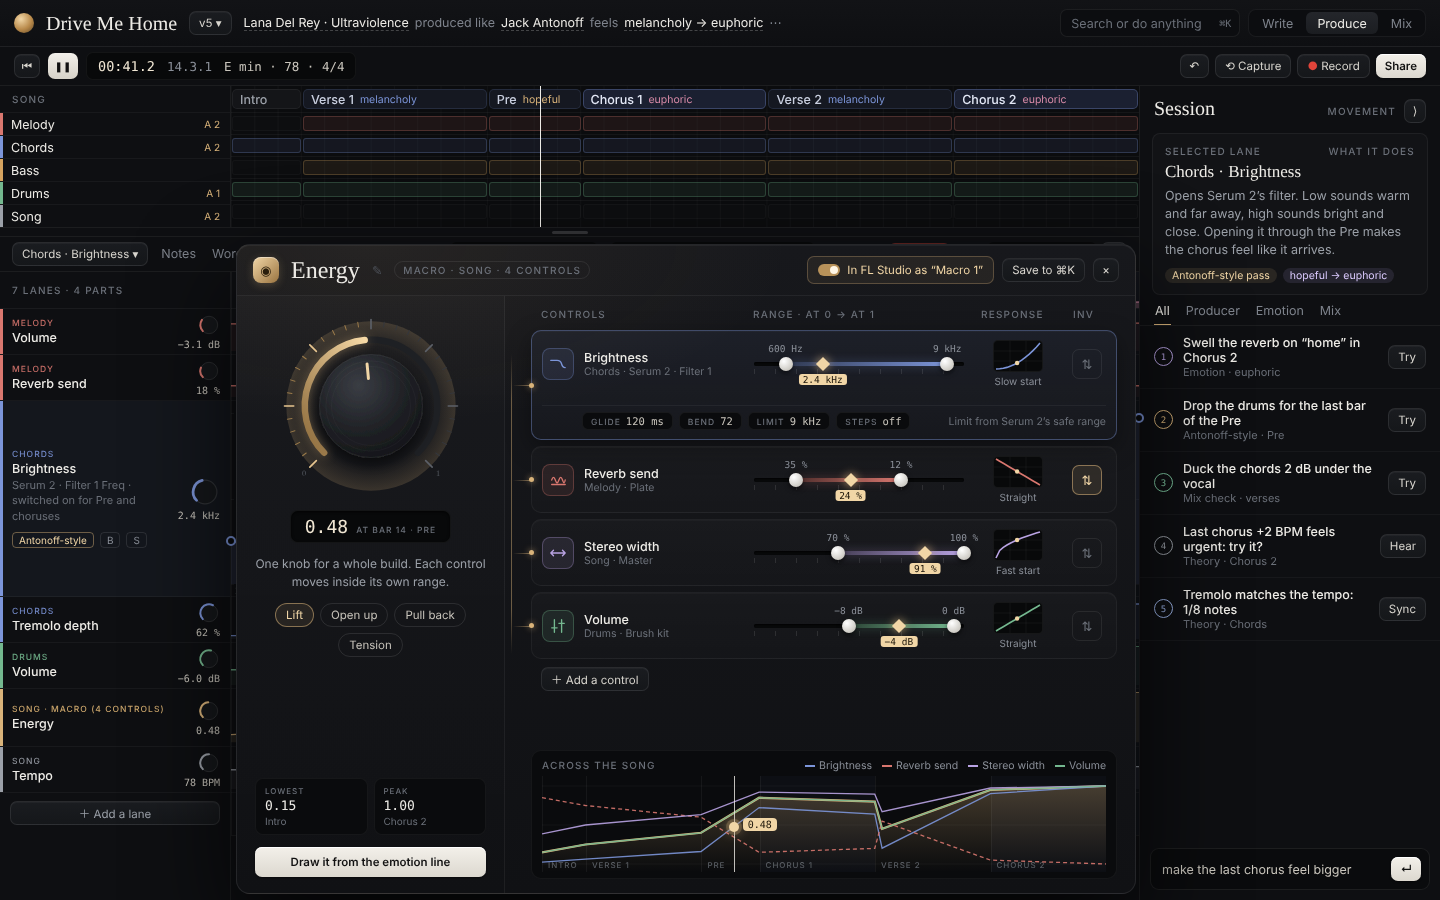
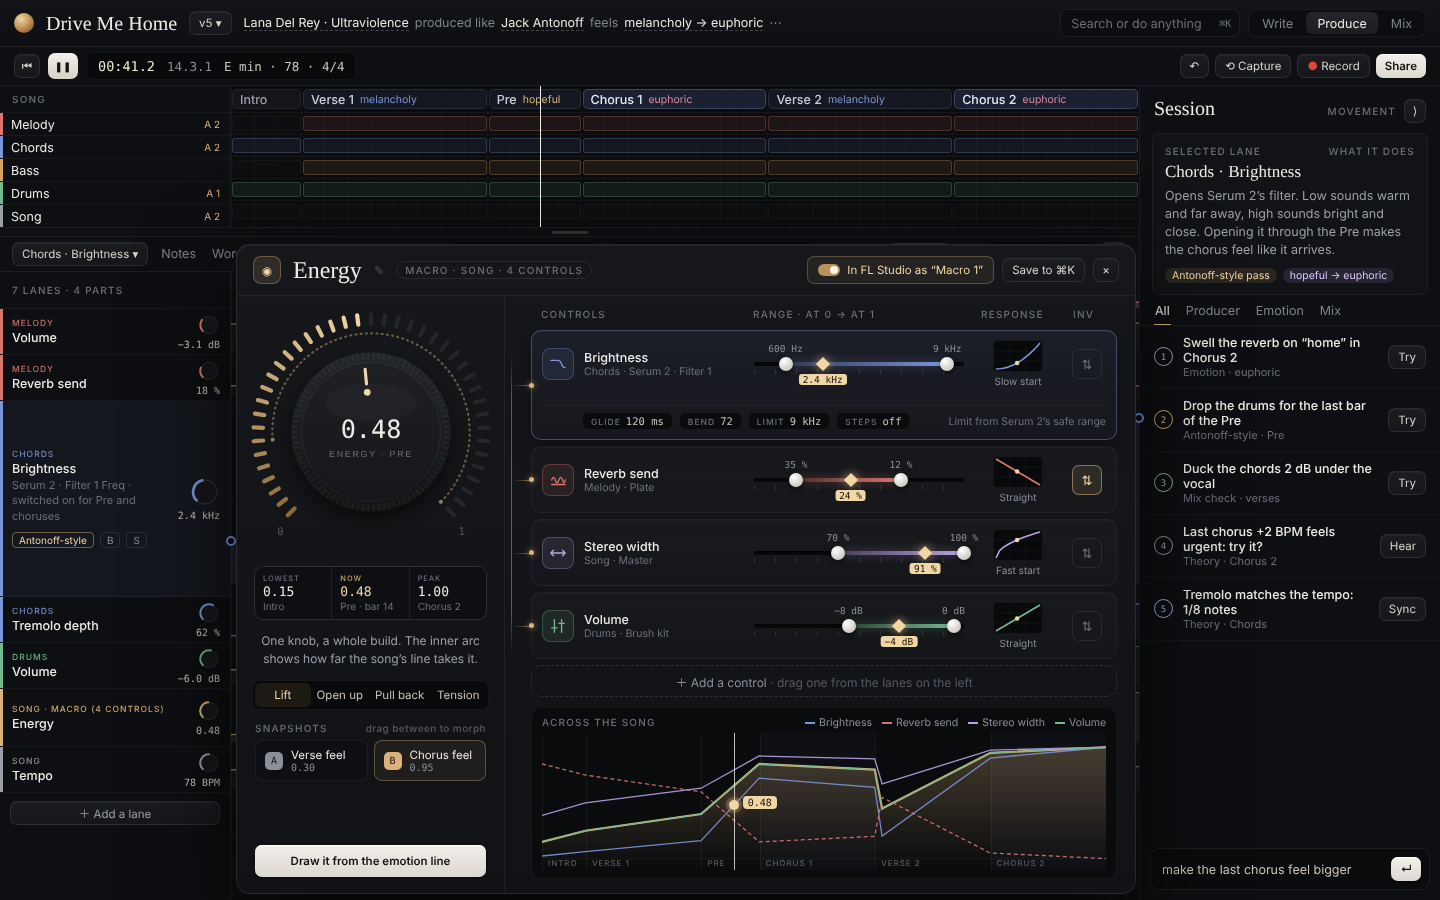
Design: macro panel tidied, modern knob (LED ring, song range arc, knurled cap, value inside), snapshots
Claude-Session: https://claude.ai/code/session_01Gwi5mznyCGAVwjhLcrp4R8

diff --git a/docs/design/automation/reference-macro.dc.html b/docs/design/automation/reference-macro.dc.html
@@ -108,9 +108,9 @@ button{cursor:pointer;white-space:nowrap}
         </div>
       </section>
 
-      <div role="dialog" aria-label="Energy macro" style="position: absolute; left: 236px; top: 158px; width: 898px; height: 648px; border-radius: 14px; background: radial-gradient(700px 300px at 15% 0%, rgba(217,179,122,.08), transparent 60%), linear-gradient(#17181C, #101114); border: 1px solid rgba(255,255,255,.09); box-shadow: 0 40px 100px rgba(0,0,0,.75), inset 0 1px 0 rgba(255,255,255,.05); z-index: 6; display: flex; flex-direction: column; overflow: hidden">
+      <div role="dialog" aria-label="Energy macro" style="position: absolute; left: 236px; top: 158px; width: 898px; height: 648px; border-radius: 14px; background: linear-gradient(#16171B, #111215); border: 1px solid rgba(255,255,255,.09); box-shadow: 0 40px 100px rgba(0,0,0,.75), inset 0 1px 0 rgba(255,255,255,.05); z-index: 6; display: flex; flex-direction: column; overflow: hidden">
         <div style="height: 50px; flex-shrink: 0; display: flex; align-items: center; gap: 12px; padding: 0 16px; border-bottom: 1px solid rgba(255,255,255,.06)">
-          <span style="width: 26px; height: 26px; border-radius: 8px; background: linear-gradient(135deg, #F1D6A6, #9A7440); box-shadow: inset 0 1px 0 rgba(255,255,255,.4), 0 2px 8px rgba(217,179,122,.25); display: flex; align-items: center; justify-content: center; color: #2A1E0C; font-size: 13px">◉</span>
+          <span style="width: 26px; height: 26px; border-radius: 8px; background: rgba(217,179,122,.14); border: 1px solid rgba(217,179,122,.35); display: flex; align-items: center; justify-content: center; color: #F1D6A6; font-size: 12px">◉</span>
           <span class="serif" style="font-size: 24px; line-height: 1">Energy</span><span style="color: #4C5058">✎</span>
           <span class="sm" style="padding: 2px 8px; border-radius: 999px; border: 1px solid rgba(255,255,255,.08)">Macro · Song · 4 controls</span>
           <span style="margin-left: auto; display: flex; gap: 8px; align-items: center">
@@ -119,29 +119,32 @@ button{cursor:pointer;white-space:nowrap}
           </span>
         </div>
         <div style="flex: 1; min-height: 0; display: grid; grid-template-columns: 268px 1fr">
-          <div style="padding: 18px 18px 16px; border-right: 1px solid rgba(255,255,255,.06); display: flex; flex-direction: column; align-items: center; gap: 12px; background: linear-gradient(rgba(255,255,255,.012), transparent)">
-            <svg viewBox="0 0 200 200" style="width: 184px; height: 184px" aria-label="Energy at 0.48">
+          <div style="padding: 14px 18px 16px; border-right: 1px solid rgba(255,255,255,.06); display: flex; flex-direction: column; align-items: center; gap: 12px">
+            <svg viewBox="0 0 240 240" style="width: 252px; height: 252px; flex-shrink: 0; margin: -4px 0" aria-label="Energy at 0.48">
               <defs>
-                <radialGradient id="cap" cx=".38" cy=".3" r=".8"><stop offset="0" stop-color="#3A3D44"></stop><stop offset=".55" stop-color="#202226"></stop><stop offset="1" stop-color="#121316"></stop></radialGradient>
-                <radialGradient id="glow" cx=".5" cy=".5" r=".5"><stop offset=".7" stop-color="rgba(217,179,122,0)"></stop><stop offset="1" stop-color="rgba(217,179,122,.18)"></stop></radialGradient>
-                <linearGradient id="arcG" x1="0" x2="1" y1="1" y2="0"><stop offset="0" stop-color="#8C6A3A"></stop><stop offset="1" stop-color="#F6D9A6"></stop></linearGradient>
-                <filter id="sh" x="-30%" y="-30%" width="160%" height="160%"><feDropShadow dx="0" dy="6" stdDeviation="7" flood-color="#000" flood-opacity=".6"></feDropShadow></filter>
+                <linearGradient id="capF" x1="0" x2="0" y1="0" y2="1"><stop offset="0" stop-color="#25272C"></stop><stop offset="1" stop-color="#131417"></stop></linearGradient>
+                <linearGradient id="faceF" x1="0" x2="0" y1="0" y2="1"><stop offset="0" stop-color="#1E2024"></stop><stop offset="1" stop-color="#16171A"></stop></linearGradient>
+                <filter id="ksh" x="-30%" y="-30%" width="160%" height="160%"><feDropShadow dx="0" dy="8" stdDeviation="9" flood-color="#000" flood-opacity=".55"></feDropShadow></filter>
               </defs>
-              <circle cx="100" cy="100" r="92" fill="url(#glow)"></circle>
-              <sc-for list="{{ticks}}" as="t" hint-placeholder-count="31"><path d="{{t.d}}" stroke="{{t.c}}" stroke-width="{{t.w}}" stroke-linecap="round"></path></sc-for>
-              <sc-for list="{{tickLab}}" as="t" hint-placeholder-count="3"><text x="{{t.x}}" y="{{t.y}}" text-anchor="middle" fill="#555A62" font-size="9" style="font-family: 'JetBrains Mono'">{{t.n}}</text></sc-for>
-              <path d="{{arcBg}}" fill="none" stroke="#1E2024" stroke-width="7" stroke-linecap="round"></path>
-              <path d="{{arc}}" fill="none" stroke="url(#arcG)" stroke-width="7" stroke-linecap="round" style="filter: drop-shadow(0 0 6px rgba(217,179,122,.45))"></path>
-              <circle cx="100" cy="100" r="56" fill="url(#cap)" filter="url(#sh)" stroke="rgba(255,255,255,.07)"></circle>
-              <circle cx="100" cy="100" r="49" fill="none" stroke="rgba(255,255,255,.035)"></circle>
-              <circle cx="100" cy="100" r="43" fill="none" stroke="rgba(255,255,255,.03)"></circle>
-              <path d="{{needle}}" stroke="#F1D6A6" stroke-width="3.2" stroke-linecap="round"></path>
+              <sc-for list="{{seg}}" as="g" hint-placeholder-count="41"><path d="{{g.d}}" stroke="{{g.c}}" stroke-width="4" stroke-linecap="round"></path></sc-for>
+              <path d="{{modArc}}" fill="none" stroke="rgba(217,179,122,.45)" stroke-width="2" stroke-linecap="round" stroke-dasharray="1 4"></path>
+              <sc-for list="{{modEnds}}" as="m" hint-placeholder-count="2"><circle cx="{{m.x}}" cy="{{m.y}}" r="2" fill="#8A7E68"></circle></sc-for>
+              <circle cx="120" cy="120" r="76" fill="url(#capF)" filter="url(#ksh)"></circle>
+              <sc-for list="{{knurl}}" as="k" hint-placeholder-count="90"><path d="{{k.d}}" stroke="rgba(255,255,255,.07)" stroke-width="1"></path></sc-for>
+              <circle cx="120" cy="120" r="66" fill="url(#faceF)" stroke="rgba(255,255,255,.06)"></circle>
+              <ellipse cx="120" cy="92" rx="44" ry="18" fill="rgba(255,255,255,.025)"></ellipse>
+              <path d="{{ptr}}" stroke="#F1D6A6" stroke-width="3" stroke-linecap="round"></path>
+              <circle cx="{{ptrDot.x}}" cy="{{ptrDot.y}}" r="3.2" fill="#F1D6A6"></circle>
+              <text x="120" y="126" text-anchor="middle" fill="#EDEBE6" font-size="24" font-family="JetBrains Mono, monospace" font-weight="500">0.48</text>
+              <text x="120" y="144" text-anchor="middle" fill="#6B7079" font-size="8.5" letter-spacing="1.6" font-family="Inter Tight, sans-serif">ENERGY · PRE</text>
+              <text x="{{lab0.x}}" y="{{lab0.y}}" text-anchor="middle" fill="#555A62" font-size="10" font-family="JetBrains Mono, monospace">0</text>
+              <text x="{{lab1.x}}" y="{{lab1.y}}" text-anchor="middle" fill="#555A62" font-size="10" font-family="JetBrains Mono, monospace">1</text>
             </svg>
-            <div style="display: flex; align-items: baseline; gap: 8px; padding: 5px 14px; border-radius: 8px; background: #08090A; border: 1px solid rgba(255,255,255,.05); box-shadow: inset 0 1px 3px rgba(0,0,0,.7)"><span class="mono" style="font-size: 18px; color: #F1E7D4">0.48</span><span class="sm" style="font-size: 8.5px">at bar 14 · Pre</span></div>
-            <span style="color: #9BA0A8; line-height: 1.5; text-align: center; font-size: 12px">One knob for a whole build. Each control moves inside its own range.</span>
-            <div style="display: flex; gap: 6px; flex-wrap: wrap; justify-content: center"><sc-for list="{{presets}}" as="p" hint-placeholder-count="3"><button style="height: 24px; padding: 0 10px; border-radius: 999px; border: 1px solid {{p.line}}; background: {{p.bg}}; color: {{p.ink}}; font-size: 11.5px">{{p.n}}</button></sc-for></div>
-            <div style="display: grid; grid-template-columns: 1fr 1fr; gap: 6px; width: 100%; margin-top: auto"><sc-for list="{{stats}}" as="x" hint-placeholder-count="2"><div style="padding: 7px 9px; border-radius: 8px; background: #0A0B0D; border: 1px solid rgba(255,255,255,.05); display: flex; flex-direction: column; gap: 2px"><span class="sm" style="font-size: 8px">{{x.k}}</span><span class="mono" style="font-size: 13px; color: #EDEBE6">{{x.v}}</span><span style="color: #6B7079; font-size: 10px">{{x.w}}</span></div></sc-for></div>
-            <button class="prim xs" style="width: 100%; height: 30px">Draw it from the emotion line</button>
+            <div style="display: grid; grid-template-columns: repeat(3, 1fr); width: 100%; border-radius: 9px; overflow: hidden; border: 1px solid rgba(255,255,255,.06); background: rgba(255,255,255,.06); gap: 1px"><sc-for list="{{stats}}" as="x" hint-placeholder-count="3"><div style="padding: 7px 8px; background: #0E0F12; display: flex; flex-direction: column; gap: 1px"><span class="sm" style="font-size: 7.5px; color: {{x.kc}}">{{x.k}}</span><span class="mono" style="font-size: 13px; color: {{x.vc}}">{{x.v}}</span><span style="color: #6B7079; font-size: 10px">{{x.w}}</span></div></sc-for></div>
+            <span style="color: #9BA0A8; line-height: 1.5; text-align: center; font-size: 12px">One knob, a whole build. The inner arc shows how far the song’s line takes it.</span>
+            <div style="display: grid; grid-template-columns: repeat(4, 1fr); width: 100%; padding: 2px; border-radius: 8px; background: #08090A; border: 1px solid rgba(255,255,255,.06)"><sc-for list="{{presets}}" as="p" hint-placeholder-count="4"><button style="height: 24px; border-radius: 6px; border: 0; background: {{p.bg}}; color: {{p.ink}}; font-size: 11.5px">{{p.n}}</button></sc-for></div>
+            <div style="width: 100%; display: flex; flex-direction: column; gap: 6px"><span class="sm" style="display: flex; justify-content: space-between"><span>Snapshots</span><span style="color: #555A62; letter-spacing: .04em; text-transform: none">drag between to morph</span></span><div style="display: grid; grid-template-columns: 1fr 1fr; gap: 6px; align-items: center"><sc-for list="{{snaps}}" as="n" hint-placeholder-count="2"><div style="padding: 7px 9px; border-radius: 8px; background: {{n.bg}}; border: 1px solid {{n.line}}; display: flex; align-items: center; gap: 8px"><span class="mono" style="width: 18px; height: 18px; border-radius: 5px; background: {{n.tag}}; color: #141210; font-size: 10px; display: flex; align-items: center; justify-content: center">{{n.k}}</span><span style="display: flex; flex-direction: column"><span style="font-size: 11.5px">{{n.n}}</span><span class="mono" style="font-size: 10px; color: #8A8F98">{{n.v}}</span></span></div></sc-for></div></div>
+            <button class="prim xs" style="width: 100%; height: 32px; margin-top: auto">Draw it from the emotion line</button>
           </div>
           <div style="padding: 12px 18px 14px 26px; display: flex; flex-direction: column; gap: 6px; min-width: 0; position: relative">
             <span aria-hidden="true" style="position: absolute; left: 6px; top: 58px; height: 300px; width: 1px; background: linear-gradient(rgba(217,179,122,.0), rgba(217,179,122,.45) 15%, rgba(217,179,122,.45) 85%, rgba(217,179,122,0))"></span>
@@ -167,10 +170,10 @@ button{cursor:pointer;white-space:nowrap}
                 <sc-if value="{{t.fine}}" hint-placeholder-val="{{false}}"><span style="grid-column: 1 / -1; display: flex; gap: 6px; align-items: center; padding: 6px 0 0 40px; border-top: 1px solid rgba(255,255,255,.05); margin-top: 2px"><sc-for list="{{t.fine}}" as="f" hint-placeholder-count="4"><span style="display: flex; gap: 5px; align-items: baseline; padding: 2px 8px; border-radius: 6px; background: #0A0B0D; border: 1px solid rgba(255,255,255,.06)"><span class="sm" style="font-size: 8.5px">{{f.k}}</span><span class="mono" style="font-size: 10.5px; color: #C9C5BC">{{f.v}}</span></span></sc-for><span style="margin-left: auto; color: #6B7079; font-size: 10.5px">Limit from Serum 2’s safe range</span></span></sc-if>
               </div>
             </sc-for>
-            <button class="ghost xs" style="align-self: flex-start; margin: 2px 0 0 10px">＋ Add a control</button>
-            <div style="margin-top: auto; border-radius: 10px; background: #0A0B0D; border: 1px solid rgba(255,255,255,.05); padding: 8px 10px 6px; position: relative; overflow: hidden">
+            <button style="height: 32px; border-radius: 10px; border: 1px dashed rgba(255,255,255,.12); background: transparent; color: #8A8F98; font-size: 12px">＋ Add a control  <span style="color: #555A62">· drag one from the lanes on the left</span></button>
+            <div style="flex: 1; min-height: 120px; margin-top: 4px; border-radius: 10px; background: #0A0B0D; border: 1px solid rgba(255,255,255,.05); padding: 8px 10px 8px; position: relative; overflow: hidden; display: flex; flex-direction: column">
               <div style="display: flex; justify-content: space-between; margin-bottom: 4px"><span class="sm">Across the song</span><span style="display: flex; gap: 10px"><sc-for list="{{mt}}" as="t" hint-placeholder-count="4"><span style="display: flex; align-items: center; gap: 4px; color: #8A8F98; font-size: 10.5px"><span style="width: 10px; height: 2px; background: {{t.c}}"></span>{{t.n}}</span></sc-for></span></div>
-              <div style="position: relative; height: 96px">
+              <div style="position: relative; flex: 1">
                 <div style="position: absolute; inset: 0; display: flex"><sc-for list="{{secs}}" as="x" hint-placeholder-count="6"><div style="flex: {{x.b}} 1 0; border-left: 1px solid rgba(255,255,255,.05); background: {{x.band}}; position: relative"><span class="sm" style="position: absolute; left: 5px; bottom: 2px; font-size: 8px; color: #555A62; white-space: nowrap">{{x.n}}</span></div></sc-for></div>
                 <svg viewBox="0 0 1000 96" preserveAspectRatio="none" style="position: absolute; inset: 0; width: 100%; height: 100%" aria-hidden="true"><defs><linearGradient id="enf" x1="0" x2="0" y1="0" y2="1"><stop offset="0" stop-color="rgba(217,179,122,.28)"></stop><stop offset="1" stop-color="rgba(217,179,122,0)"></stop></linearGradient></defs><path d="M0 10 H1000 M0 49 H1000 M0 88 H1000" stroke="rgba(255,255,255,.04)" vector-effect="non-scaling-stroke"></path><path d="{{enArea}}" fill="url(#enf)"></path><path d="{{enLine}}" fill="none" stroke="#D9B37A" stroke-width="2.2" vector-effect="non-scaling-stroke"></path><sc-for list="{{mt}}" as="t" hint-placeholder-count="4"><path d="{{t.line}}" fill="none" stroke="{{t.c}}" stroke-width="1.3" stroke-dasharray="{{t.dash}}" vector-effect="non-scaling-stroke" opacity=".9"></path></sc-for></svg>
                 <div style="position: absolute; top: 0; bottom: 0; left: 34%; width: 1px; background: #EDEBE6; opacity: .8"></div><span style="position: absolute; left: calc(34% - 5px); top: calc({{phY}}% - 5px); width: 10px; height: 10px; border-radius: 50%; background: #F1D6A6; box-shadow: 0 0 0 3px rgba(217,179,122,.25), 0 0 12px rgba(217,179,122,.8)"></span><span class="mono" style="position: absolute; left: calc(34% + 9px); top: calc({{phY}}% - 9px); font-size: 10px; color: #1B1408; background: #F1D6A6; padding: 1px 5px; border-radius: 4px">0.48</span>
@@ -253,7 +256,16 @@ class Component extends DCLogic {
       return { part: t[0], c: t[1], c0: hx(t[1], .35), glow: hx(t[1], .35), tint: hx(t[1], .1), ring: hx(t[1], .3), icon: t[2], n: t[3], where: t[4], a: Math.min(a, b), b: Math.max(a, b), w: Math.abs(b - a), va: t[7], vb: t[8], now: now.toFixed(1), vn: t[11], r: t[9], rd: rd, dx: (2 + V * 44).toFixed(1), dy: (28 - fy * 26).toFixed(1), invLine: t[10] ? 'rgba(217,179,122,.55)' : 'rgba(255,255,255,.08)', invBg: t[10] ? 'rgba(217,179,122,.12)' : 'transparent', invInk: t[10] ? '#F1D6A6' : '#6B7079', line: line, dash: t[10] ? '4 3' : '0', cardBg: t[3] === 'Brightness' ? 'linear-gradient(rgba(124,149,217,.07), rgba(124,149,217,.02))' : 'linear-gradient(rgba(255,255,255,.025), rgba(255,255,255,.01))', cardLine: t[3] === 'Brightness' ? 'rgba(124,149,217,.4)' : 'rgba(255,255,255,.05)', cardGlow: t[3] === 'Brightness' ? '0 8px 24px rgba(0,0,0,.35)' : '0 0 0 transparent', fine: t[3] === 'Brightness' ? [['Glide', '120 ms'], ['Bend', '72'], ['Limit', '9 kHz'], ['Steps', 'off']].map(function (f) { return { k: f[0], v: f[1] }; }) : false }; });
     var stats = [['Lowest', '0.15', 'Intro'], ['Peak', '1.00', 'Chorus 2']].map(function (x) { return { k: x[0], v: x[1], w: x[2] }; });
     var eL = 'M' + en2.map(function (p) { return (p[0] / 39 * 1000).toFixed(0) + ' ' + (88 - p[1] * 78).toFixed(1); }).join(' L');
-    return { stats: stats, phY: ((88 - .48 * 78) / 96 * 100).toFixed(1), ticks: ticks, tickLab: tickLab, arcBg: arcBg, arc: arc, needle: needle, presets: presets, mt: mt, enLine: eL, enArea: eL + ' L1000 96 L0 96 Z', parts: parts, secs: secs, tabs: tabs, tools: tools, lanes: lanes, laneCount: '7 lanes · 4 parts', energy: eL + ' L1000 16 L0 16 Z', energyLine: eL, shapes: shapes, lens: lens, selL: (11 / 39 * 100).toFixed(2), selW: (4 / 39 * 100).toFixed(2), filters: filters, feed: feed, pop: pop, addInk: ADD ? '#EDEBE6' : '#9BA0A8', addLine: ADD ? 'rgba(217,179,122,.6)' : 'rgba(255,255,255,.09)' };
+    function KQ(a, r) { a = a * Math.PI / 180; return [(120 + r * Math.cos(a)).toFixed(1), (120 + r * Math.sin(a)).toFixed(1)]; }
+    var seg = []; for (var k = 0; k <= 40; k++) { var t = k / 40, ang = 135 + t * 270, on = t <= V + 1e-6, q1 = KQ(ang, 112), q2 = KQ(ang, 103); var c = on ? 'rgb(' + Math.round(140 + 101 * t / V) + ',' + Math.round(106 + 108 * t / V) + ',' + Math.round(58 + 108 * t / V) + ')' : '#24262B'; seg.push({ d: 'M' + q1.join(' ') + ' L' + q2.join(' '), c: c }); }
+    var m0 = KQ(135 + .15 * 270, 94), m1 = KQ(135 + 1 * 270, 94); var modArc = 'M' + m0.join(' ') + ' A94 94 0 1 1 ' + m1.join(' ');
+    var modEnds = [m0, m1].map(function (m) { return { x: m[0], y: m[1] }; });
+    var knurl = []; for (var k2 = 0; k2 < 90; k2++) { var a2 = k2 * 4, u1 = KQ(a2, 75), u2 = KQ(a2, 69); knurl.push({ d: 'M' + u1.join(' ') + ' L' + u2.join(' ') }); }
+    var pa = 135 + V * 270, pp1 = KQ(pa, 46), pp2 = KQ(pa, 60), pd = KQ(pa, 38);
+    var l0 = KQ(135, 122), l1 = KQ(45, 122);
+    stats = [['Lowest', '0.15', 'Intro', 0], ['Now', '0.48', 'Pre · bar 14', 1], ['Peak', '1.00', 'Chorus 2', 0]].map(function (x) { return { k: x[0], v: x[1], w: x[2], kc: x[3] ? '#C9A46A' : '#6B7079', vc: x[3] ? '#F1D6A6' : '#EDEBE6' }; });
+    var snaps = [['A', 'Verse feel', '0.30', 0], ['B', 'Chorus feel', '0.95', 1]].map(function (n) { var on = !!n[3]; return { k: n[0], n: n[1], v: n[2], tag: on ? '#D9B37A' : '#8A8F98', bg: on ? 'rgba(217,179,122,.07)' : '#0E0F12', line: on ? 'rgba(217,179,122,.35)' : 'rgba(255,255,255,.06)' }; });
+    return { snaps: snaps, seg: seg, modArc: modArc, modEnds: modEnds, knurl: knurl, ptr: 'M' + pp1.join(' ') + ' L' + pp2.join(' '), ptrDot: { x: pd[0], y: pd[1] }, lab0: { x: l0[0], y: (+l0[1] + 12).toFixed(1) }, lab1: { x: l1[0], y: (+l1[1] + 12).toFixed(1) }, stats: stats, phY: ((88 - .48 * 78) / 96 * 100).toFixed(1), ticks: ticks, tickLab: tickLab, arcBg: arcBg, arc: arc, needle: needle, presets: presets, mt: mt, enLine: eL, enArea: eL + ' L1000 96 L0 96 Z', parts: parts, secs: secs, tabs: tabs, tools: tools, lanes: lanes, laneCount: '7 lanes · 4 parts', energy: eL + ' L1000 16 L0 16 Z', energyLine: eL, shapes: shapes, lens: lens, selL: (11 / 39 * 100).toFixed(2), selW: (4 / 39 * 100).toFixed(2), filters: filters, feed: feed, pop: pop, addInk: ADD ? '#EDEBE6' : '#9BA0A8', addLine: ADD ? 'rgba(217,179,122,.6)' : 'rgba(255,255,255,.09)' };
   }
 }
 </script>

diff --git a/docs/design/automation/README.md b/docs/design/automation/README.md
@@ -81,8 +81,20 @@ Exact values: `reference.dc.html` (a design-canvas file: copy its values, not it
 - **Values stay safe:** plug-in limits (`max` in plugin-maps) and level limits apply, and volume moves above 0 dB warn.
 
 ## Macros (`4-Macro.png`, exact values in `reference-macro.dc.html`)
-Look: a machined knob (tick ring 0 → .5 → 1, brass arc that glows, dark domed cap with a soft shadow, brass pointer), the value in an
-inset display ("0.48 · at bar 14 · Pre"), and preset chips (Lift, Open up, Pull back, Tension). Each control is a soft card with an icon tile in
+Look (modern, clean):
+- **The knob:**
+  - a 41-segment LED ring (lit segments brass, brighter towards the value, unlit graphite);
+  - a dotted inner arc showing the range the song's Energy line covers (0.15–1.00), with end dots;
+  - a matte cap with a fine knurled rim and a soft drop shadow;
+  - a brass pointer line and dot;
+  - the value printed in the centre ("0.48", with "ENERGY · PRE" under it), and 0 and 1 at the ends.
+- Under it, three joined tiles: Lowest / **Now** / Peak.
+- One short line of help.
+- A segmented preset control (Lift, Open up, Pull back, Tension).
+- **Snapshots A and B** ("Verse feel 0.30", "Chorus feel 0.95"): click to jump, drag between them to morph.
+- Then **Draw it from the emotion line**.
+- No empty bands: the song preview on the right grows to fill the height, and "＋ Add a control" is a dashed full-width row
+  ("drag one from the lanes on the left"). Each control is a soft card with an icon tile in
 the part colour, its name and where it lives, a recessed range track with tick marks, metal end caps, a fill in the part colour, a glowing brass
 diamond at the current value with a value tag, a small response graph showing where the knob sits now, and an invert toggle. "Across the song"
 shows the Energy line (brass, filled) over section bands, with each control's resulting line (dashed if inverted) and the playhead. The header
